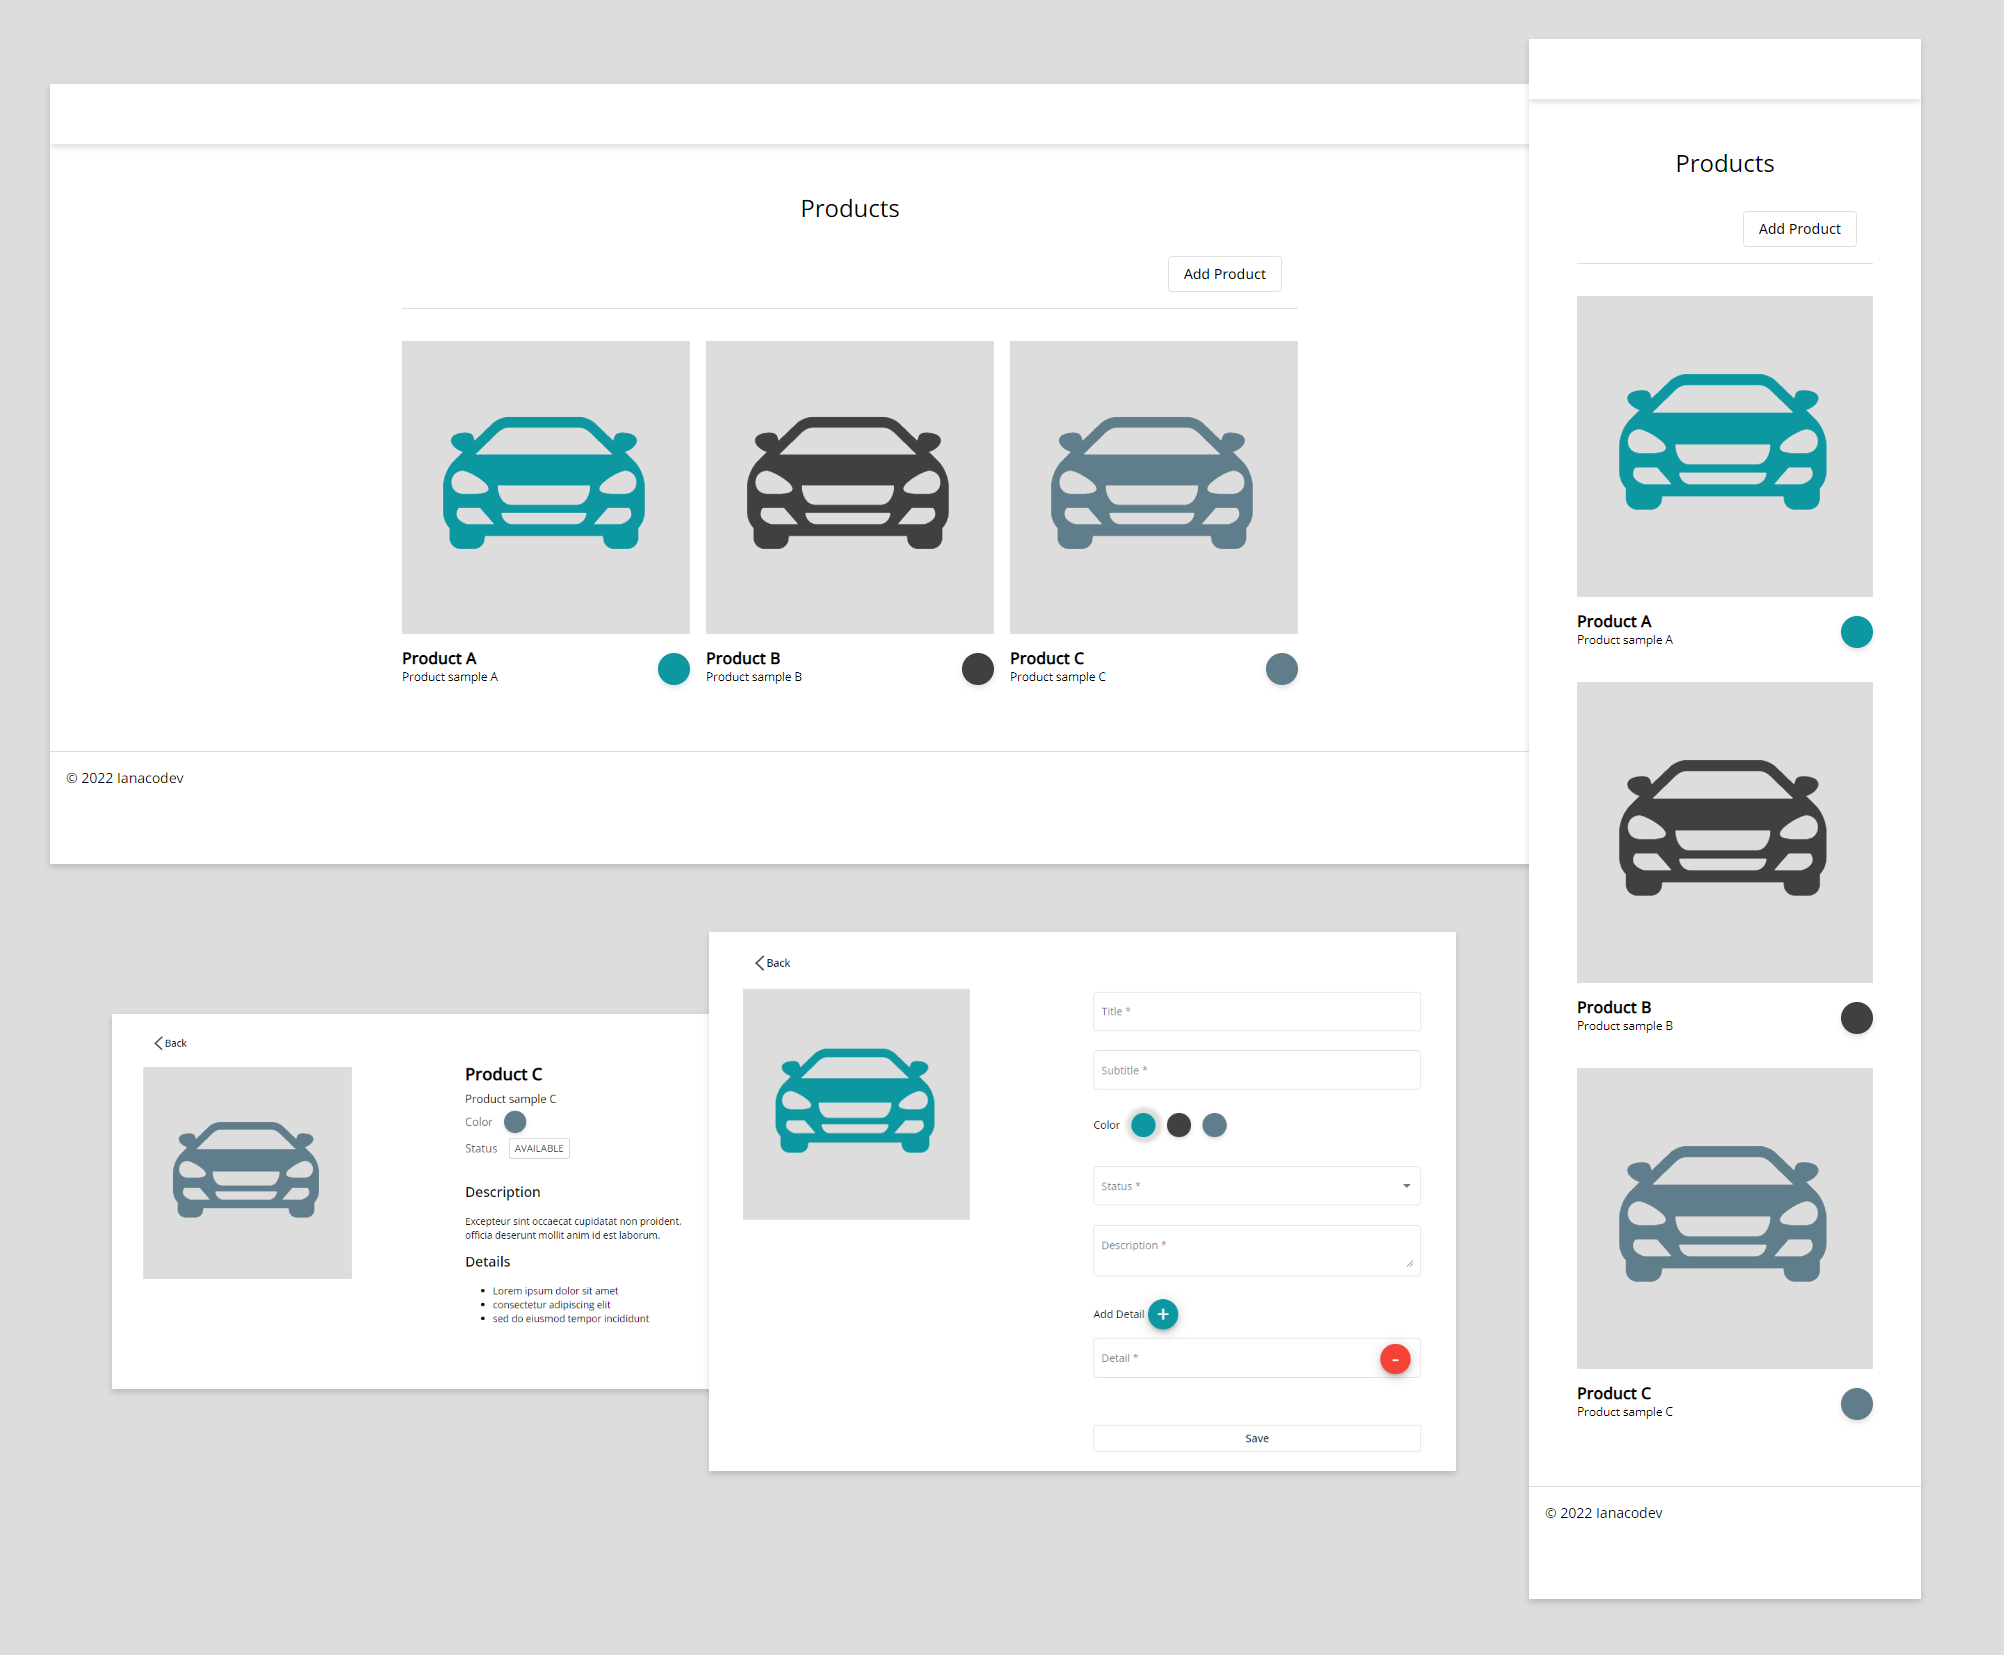
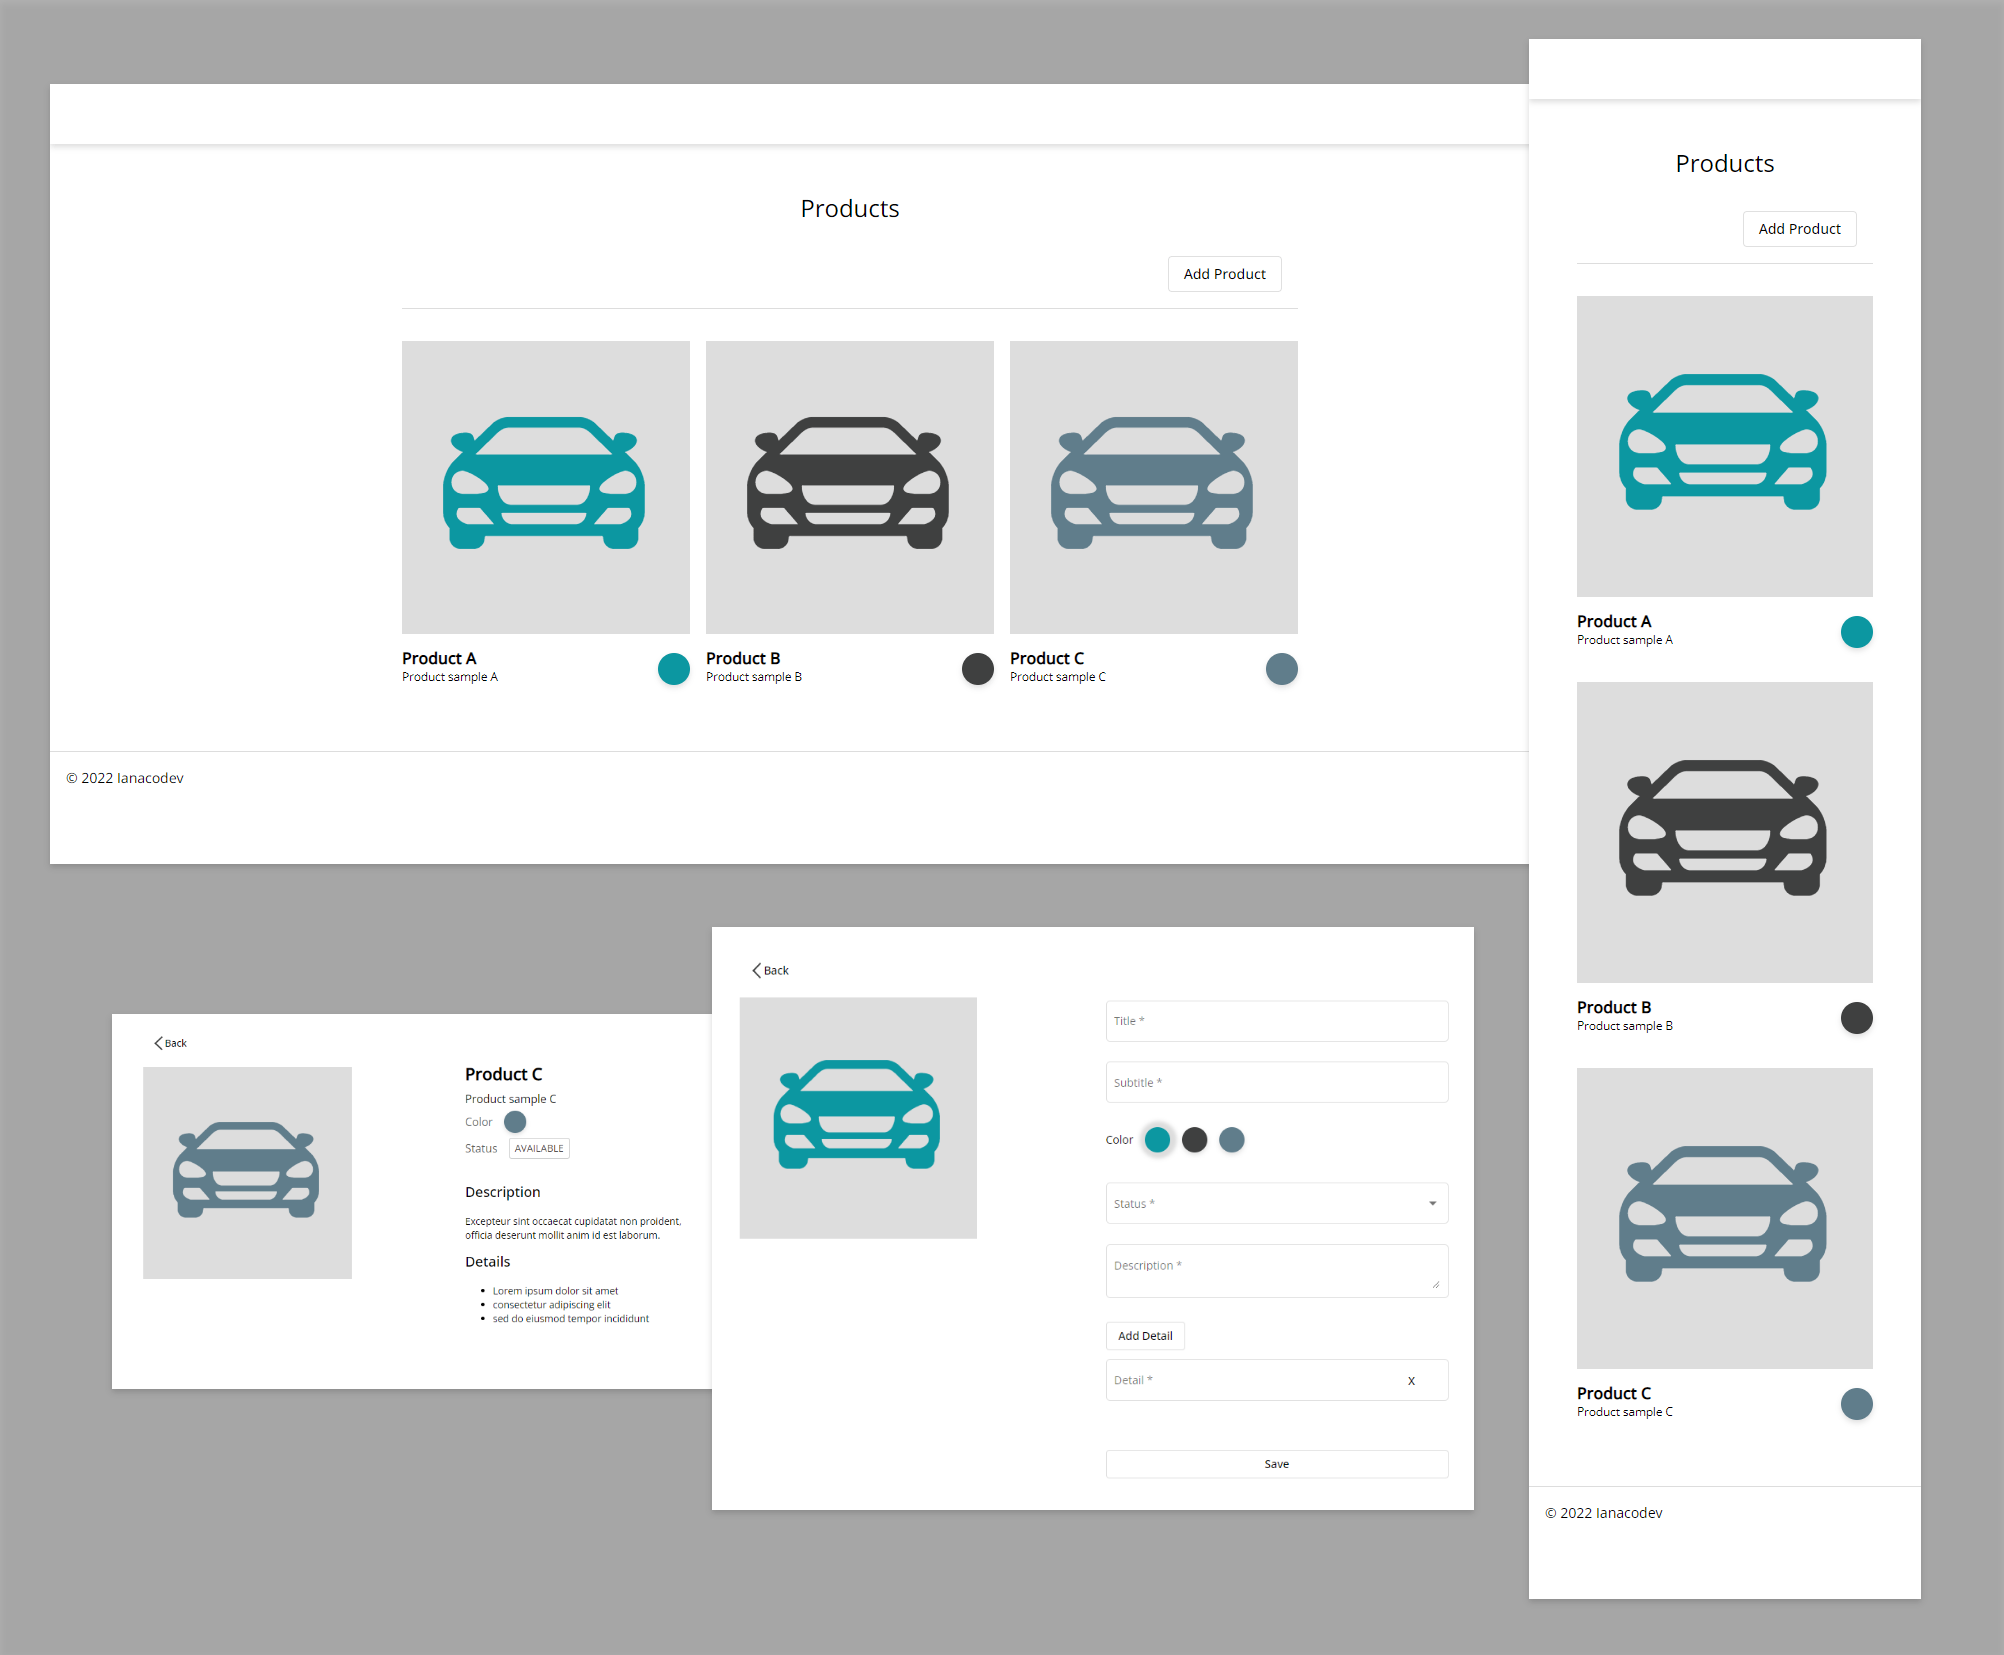
minor updates

Changed region(s): [[0.0, 0.0, 1.0, 1.0], [0.5569, 0.7396, 0.5878, 0.832], [0.5569, 0.6471, 0.6188, 0.7088]]

diff --git a/src/app/products/components/product-form/product-form.component.html b/src/app/products/components/product-form/product-form.component.html
@@ -55,15 +55,13 @@
   <div class="product-form__details" formArrayName="details">
     <div class="product-form__details-header">
       <div fxLayout="row inline" fxLayoutAlign="start center" fxLayoutGap="5px">
-        <span>Add Detail</span>
         <button
           type="button"
           class="product-form__button-circle"
-          mat-mini-fab
-          color="primary"
+          mat-stroked-button
           (click)="addDetail()"
         >
-          <span class="product-form__button-text">+</span>
+          Add Detail
         </button>
       </div>
     </div>
@@ -74,11 +72,10 @@
         <button
           type="button"
           class="product-form__button-circle"
-          mat-mini-fab
-          color="warn"
+          mat-button
           (click)="removeDetail(i)"
         >
-          <span class="product-form__button-text">-</span>
+          X
         </button>
       </div>
       <mat-error *ngIf="details.at(i).errors as errors">

diff --git a/src/styles/material-overrides/_app-buttons.scss b/src/styles/material-overrides/_app-buttons.scss
@@ -1,2 +1,10 @@
-.mat-mini-fab {
+.mat-button-base {
+  &.mat-mini-fab {
+    height: 2rem;
+    width: 2rem;
+    box-shadow: none;
+    &:not([class*="mat-elevation-z"]) {
+      box-shadow: none;
+    }
+  }
 }

diff --git a/src/app/products/components/product-form/product-form.component.scss b/src/app/products/components/product-form/product-form.component.scss
@@ -11,7 +11,7 @@
     &-text {
       font-size: 1.8rem;
       position: relative;
-      top: -2px;
+      top: -0.375rem;
     }
 
     &-stroked {
